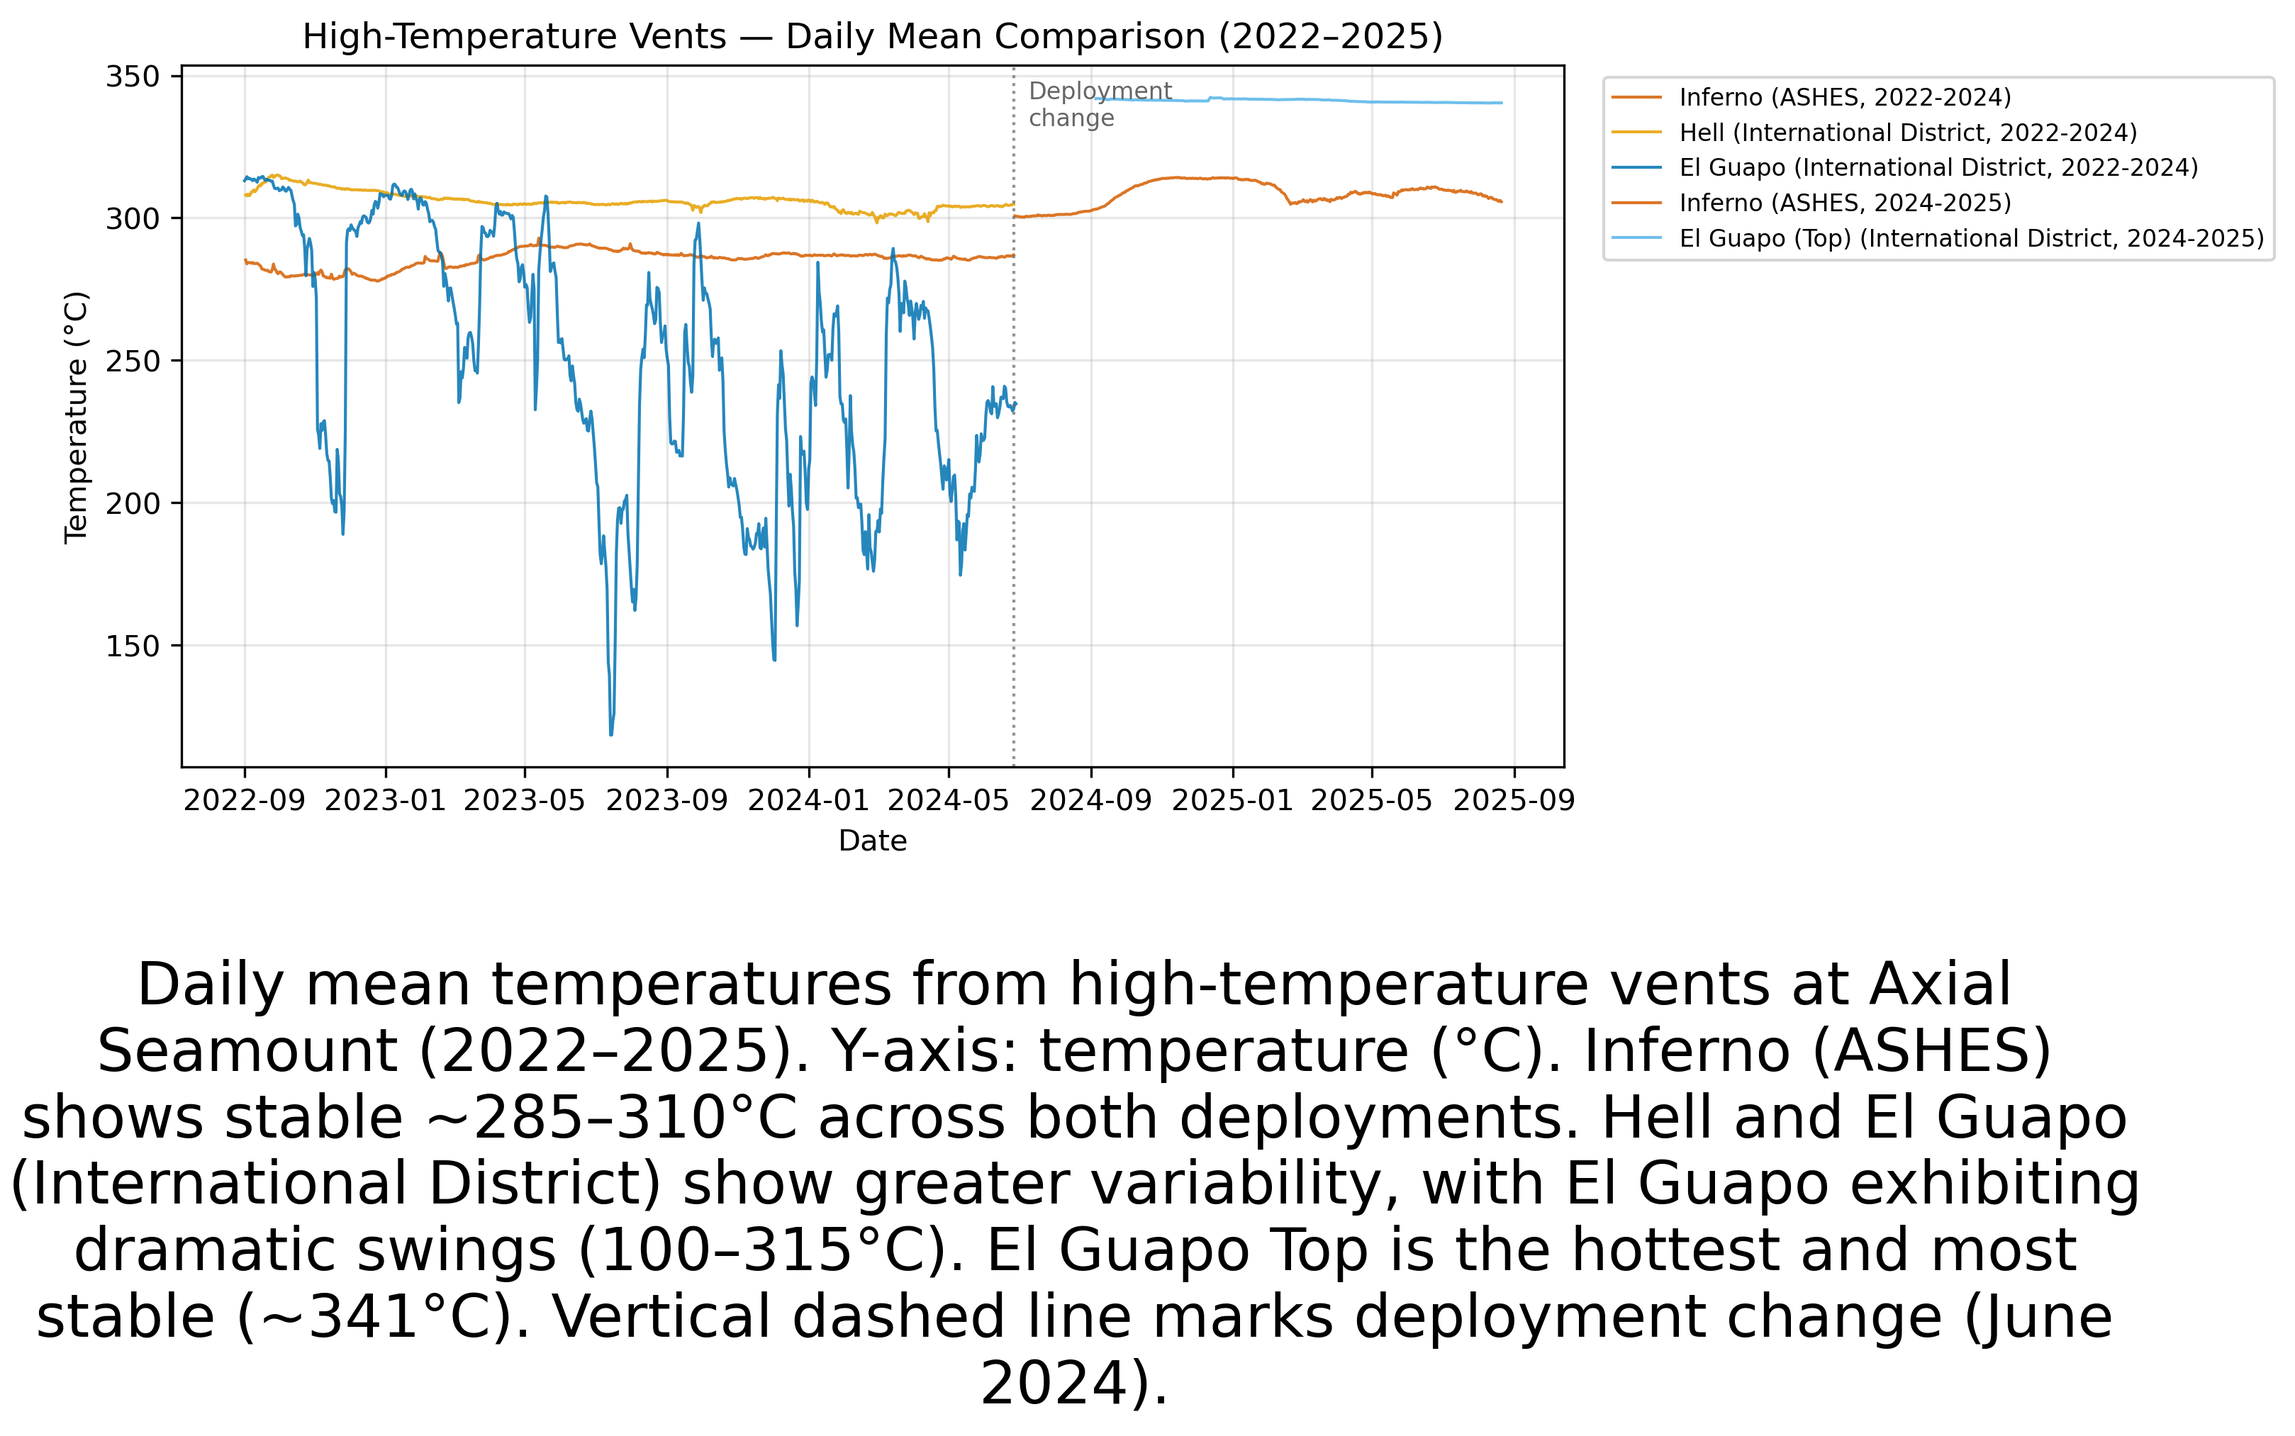
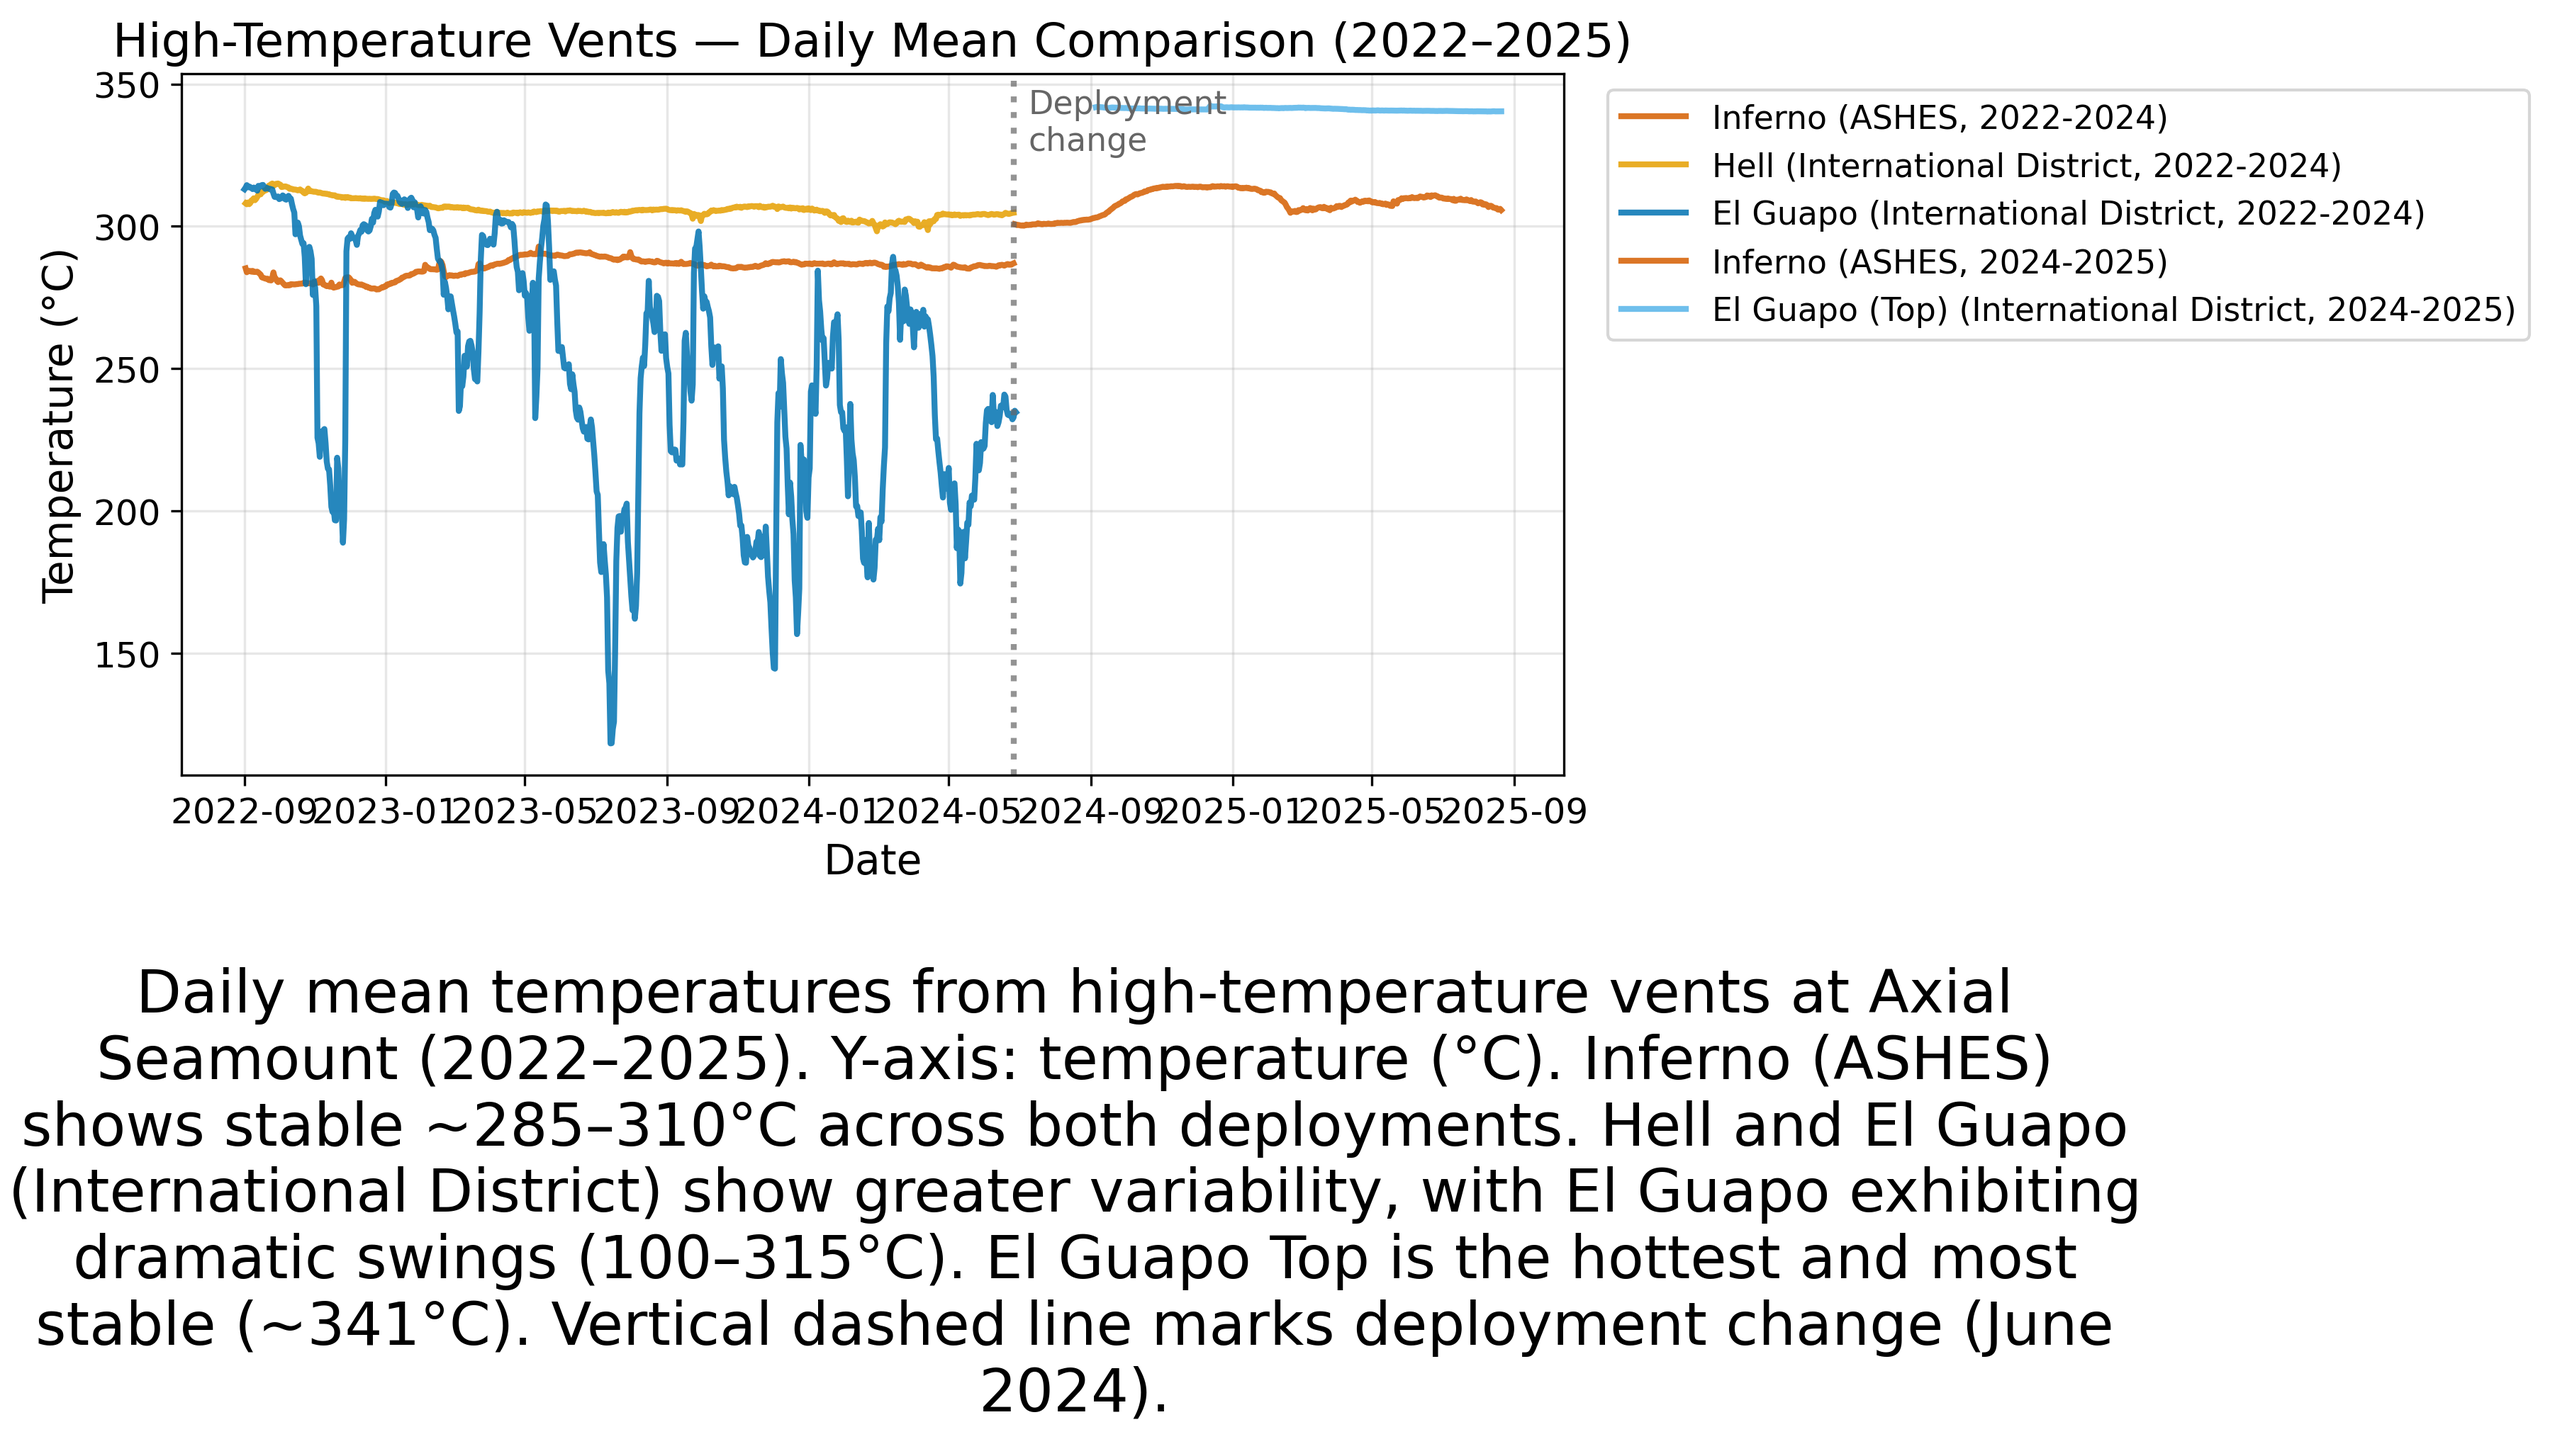
Poster-friendly font sizes and line weights
Add centralized styling constants for poster visibility:
- POSTER_TITLE_SIZE: 16pt (was 12-13pt)
- POSTER_LABEL_SIZE: 14pt (was 9-11pt)
- POSTER_TICK_SIZE: 12pt (was 8-9pt)
- POSTER_LEGEND_SIZE: 11pt (was 7-9pt)
- POSTER_ANNOT_SIZE: 11pt (was 7-9pt)
- POSTER_PANEL_LABEL_SIZE: 18pt (was 14pt)
- POSTER_LINE_WIDTH: 2.0 (was 0.8-1.4)
- POSTER_ANNOT_LINE_WIDTH: 2.0 (was 0.8-1.5)

All figures now readable at 3-6 feet viewing distance.

diff --git a/survey.py b/survey.py
@@ -36,6 +36,16 @@ SETTLING_HOURS = 24
 MAD_THRESHOLD = 5.0
 MAD_WINDOW_HOURS = 24
 
+# --- Poster figure styling (optimized for viewing at 3-6 feet) ---
+POSTER_TITLE_SIZE = 16
+POSTER_LABEL_SIZE = 14      # axis labels
+POSTER_TICK_SIZE = 12       # tick labels
+POSTER_LEGEND_SIZE = 11
+POSTER_ANNOT_SIZE = 11      # annotations
+POSTER_PANEL_LABEL_SIZE = 18  # (a), (b) labels
+POSTER_LINE_WIDTH = 2.0     # main data lines
+POSTER_ANNOT_LINE_WIDTH = 2.0  # vertical annotation lines
+
 # --- Instrument registry ---
 # Each entry: (file_path, vent_name, field, deployment, format, temp_col, date_col)
 INSTRUMENTS = [
@@ -330,26 +340,26 @@ def fig_historical_eruption(records, fig_path, eruption_date=None):
         color = VENT_COLORS.get(vent, "#333333")
         label = f"{vent}"
         daily = deployed["temperature"].resample("D").mean()
-        ax.plot(daily.index, daily.values, color=color, linewidth=1.2, alpha=0.85, label=label)
+        ax.plot(daily.index, daily.values, color=color, linewidth=POSTER_LINE_WIDTH, alpha=0.85, label=label)
 
-    ax.set_xlabel("Date", fontsize=11)
-    ax.set_ylabel("Temperature (°C)", fontsize=11)
-    ax.set_title("Vent Temperatures Around the April 2011 Eruption\nAxial Seamount", fontsize=12, fontweight="bold")
+    ax.set_xlabel("Date", fontsize=POSTER_LABEL_SIZE)
+    ax.set_ylabel("Temperature (°C)", fontsize=POSTER_LABEL_SIZE)
+    ax.set_title("Vent Temperatures Around the April 2011 Eruption\nAxial Seamount", fontsize=POSTER_TITLE_SIZE, fontweight="bold")
     ax.grid(True, alpha=0.3)
-    ax.tick_params(labelsize=9)
+    ax.tick_params(labelsize=POSTER_TICK_SIZE)
 
     # Tighten y-axis to focus on eruption response (230-330°C)
     ax.set_ylim(230, 330)
 
     # Legend in upper left (away from eruption signal)
-    ax.legend(loc="upper left", fontsize=9, frameon=True, framealpha=0.9)
+    ax.legend(loc="upper left", fontsize=POSTER_LEGEND_SIZE, frameon=True, framealpha=0.9)
 
     # Eruption annotation
     if eruption_date:
-        ax.axvline(eruption_date, color="#CC0000", linestyle="--", linewidth=1.5, alpha=0.8)
+        ax.axvline(eruption_date, color="#CC0000", linestyle="--", linewidth=POSTER_ANNOT_LINE_WIDTH, alpha=0.8)
         ax.annotate("April 6, 2011\neruption", xy=(eruption_date, 328),
                     xytext=(5, -5), textcoords="offset points",
-                    fontsize=9, color="#CC0000", va="top", fontweight="bold")
+                    fontsize=POSTER_ANNOT_SIZE, color="#CC0000", va="top", fontweight="bold")
 
     # Figure caption (20pt font for poster)
     caption = (
@@ -460,22 +470,22 @@ def fig_survey_overview(records, fig_path):
         label = f"{vent} ({rec.attrs['field']}, {dep})"
 
         daily = deployed["temperature"].resample("D").mean()
-        ax.plot(daily.index, daily.values, color=color, linewidth=0.8)
-        ax.set_ylabel("°C", fontsize=9)
-        ax.set_title(label, fontsize=10, fontweight="bold", loc="left")
+        ax.plot(daily.index, daily.values, color=color, linewidth=POSTER_LINE_WIDTH)
+        ax.set_ylabel("°C", fontsize=POSTER_LABEL_SIZE)
+        ax.set_title(label, fontsize=POSTER_LABEL_SIZE, fontweight="bold", loc="left")
         ax.grid(True, alpha=0.3)
-        ax.tick_params(labelsize=8)
+        ax.tick_params(labelsize=POSTER_TICK_SIZE)
         ax.set_xlim(xmin, xmax)
 
-    axes[-1].set_xlabel("Date")
+    axes[-1].set_xlabel("Date", fontsize=POSTER_LABEL_SIZE)
 
     # Deployment change annotation on all panels
     deploy_change = pd.Timestamp("2024-06-26")
     for ax in axes:
-        ax.axvline(deploy_change, color="#666666", linestyle=":", linewidth=0.8, alpha=0.7)
+        ax.axvline(deploy_change, color="#666666", linestyle=":", linewidth=POSTER_ANNOT_LINE_WIDTH, alpha=0.7)
 
     fig.suptitle("MISO Temperature Survey — All Recent Instruments (2022–2025)",
-                 fontsize=13, fontweight="bold")
+                 fontsize=POSTER_TITLE_SIZE, fontweight="bold")
 
     # Figure caption
     caption = (
@@ -508,20 +518,21 @@ def fig_hightemp_comparison(records, summary, fig_path):
         color = VENT_COLORS.get(vent, "#333333")
         label = f"{vent} ({rec.attrs['field']}, {dep})"
         daily = deployed["temperature"].resample("D").mean()
-        ax.plot(daily.index, daily.values, color=color, linewidth=1, alpha=0.85, label=label)
+        ax.plot(daily.index, daily.values, color=color, linewidth=POSTER_LINE_WIDTH, alpha=0.85, label=label)
 
-    ax.set_xlabel("Date")
-    ax.set_ylabel("Temperature (°C)")
-    ax.set_title("High-Temperature Vents — Daily Mean Comparison (2022–2025)")
-    ax.legend(loc="upper left", bbox_to_anchor=(1.02, 1), fontsize=8, frameon=True)
+    ax.set_xlabel("Date", fontsize=POSTER_LABEL_SIZE)
+    ax.set_ylabel("Temperature (°C)", fontsize=POSTER_LABEL_SIZE)
+    ax.set_title("High-Temperature Vents — Daily Mean Comparison (2022–2025)", fontsize=POSTER_TITLE_SIZE)
+    ax.legend(loc="upper left", bbox_to_anchor=(1.02, 1), fontsize=POSTER_LEGEND_SIZE, frameon=True)
     ax.grid(True, alpha=0.3)
+    ax.tick_params(labelsize=POSTER_TICK_SIZE)
 
     # Deployment change annotation
     deploy_change = pd.Timestamp("2024-06-26")
-    ax.axvline(deploy_change, color="#666666", linestyle=":", linewidth=1, alpha=0.7)
+    ax.axvline(deploy_change, color="#666666", linestyle=":", linewidth=POSTER_ANNOT_LINE_WIDTH, alpha=0.7)
     ax.annotate("Deployment\nchange", xy=(deploy_change, ax.get_ylim()[1]),
                 xytext=(5, -5), textcoords="offset points",
-                fontsize=8, color="#666666", va="top")
+                fontsize=POSTER_ANNOT_SIZE, color="#666666", va="top")
 
     # Figure caption (24pt font for poster)
     caption = (
@@ -547,11 +558,11 @@ def fig_poster_bpr(records, summary, bpr, fig_path, tmpsf=None):
     # Same base color for same vent, solid=2022-2024, dashed=2024-2025
     # Uses colorblind-safe Okabe-Ito palette
     POSTER_STYLE = {
-        ("Inferno", "2022-2024"):      {"color": "#D55E00", "ls": "-",  "lw": 1.4, "label": "Inferno (ASHES, 2022–24)"},
-        ("Inferno", "2024-2025"):      {"color": "#D55E00", "ls": "--", "lw": 1.4, "label": "Inferno (ASHES, 2024–25)"},
-        ("Hell", "2022-2024"):         {"color": "#E69F00", "ls": "-",  "lw": 1.4, "label": "Hell (ID, 2022–24)"},
-        ("El Guapo", "2022-2024"):     {"color": "#0072B2", "ls": "-",  "lw": 1.4, "label": "El Guapo (ID, 2022–24)"},
-        ("El Guapo (Top)", "2024-2025"): {"color": "#56B4E9", "ls": "--", "lw": 1.4, "label": "El Guapo Top (ID, 2024–25)"},
+        ("Inferno", "2022-2024"):      {"color": "#D55E00", "ls": "-",  "lw": POSTER_LINE_WIDTH, "label": "Inferno (ASHES, 2022–24)"},
+        ("Inferno", "2024-2025"):      {"color": "#D55E00", "ls": "--", "lw": POSTER_LINE_WIDTH, "label": "Inferno (ASHES, 2024–25)"},
+        ("Hell", "2022-2024"):         {"color": "#E69F00", "ls": "-",  "lw": POSTER_LINE_WIDTH, "label": "Hell (ID, 2022–24)"},
+        ("El Guapo", "2022-2024"):     {"color": "#0072B2", "ls": "-",  "lw": POSTER_LINE_WIDTH, "label": "El Guapo (ID, 2022–24)"},
+        ("El Guapo (Top)", "2024-2025"): {"color": "#56B4E9", "ls": "--", "lw": POSTER_LINE_WIDTH, "label": "El Guapo Top (ID, 2024–25)"},
     }
 
     # Two panels if TMPSF available, otherwise single (with space for caption)
@@ -575,8 +586,8 @@ def fig_poster_bpr(records, summary, bpr, fig_path, tmpsf=None):
                  color=style["color"], linestyle=style["ls"],
                  linewidth=style["lw"], alpha=0.85, label=style["label"])
 
-    ax1.set_ylabel("Vent Temperature (°C)", fontsize=11)
-    ax1.tick_params(labelsize=9)
+    ax1.set_ylabel("Vent Temperature (°C)", fontsize=POSTER_LABEL_SIZE)
+    ax1.tick_params(labelsize=POSTER_TICK_SIZE)
 
     # Constrain x-axis to temperature data range (with small padding)
     all_starts = []
@@ -596,10 +607,10 @@ def fig_poster_bpr(records, summary, bpr, fig_path, tmpsf=None):
         ax2 = ax1.twinx()
         bpr_cm = bpr["differential_m"] * 100
         ax2.plot(bpr.index, bpr_cm,
-                 color="#0868AC", alpha=0.5, linewidth=1.5, linestyle="--",
+                 color="#0868AC", alpha=0.5, linewidth=POSTER_LINE_WIDTH + 0.5, linestyle="--",
                  label="Differential uplift")
-        ax2.set_ylabel("Differential uplift (cm)", color="#0868AC", fontsize=11)
-        ax2.tick_params(axis="y", labelcolor="#0868AC", labelsize=9)
+        ax2.set_ylabel("Differential uplift (cm)", color="#0868AC", fontsize=POSTER_LABEL_SIZE)
+        ax2.tick_params(axis="y", labelcolor="#0868AC", labelsize=POSTER_TICK_SIZE)
 
         # Constrain y-axis to visible BPR range (within the x-axis window)
         bpr_visible = bpr_cm.loc[xmin:xmax].dropna()
@@ -622,13 +633,13 @@ def fig_poster_bpr(records, summary, bpr, fig_path, tmpsf=None):
         tmpsf_hot_mean = tmpsf[hot_cols].mean(axis=1)
 
         ax3.plot(tmpsf_hot_mean.index, tmpsf_hot_mean.values,
-                 color="#7A0177", linewidth=0.8, alpha=0.85)
-        ax3.set_ylabel("TMPSF (°C)", fontsize=11)
-        ax3.set_xlabel("Date", fontsize=11)
-        ax3.tick_params(labelsize=9)
+                 color="#7A0177", linewidth=POSTER_LINE_WIDTH, alpha=0.85)
+        ax3.set_ylabel("TMPSF (°C)", fontsize=POSTER_LABEL_SIZE)
+        ax3.set_xlabel("Date", fontsize=POSTER_LABEL_SIZE)
+        ax3.tick_params(labelsize=POSTER_TICK_SIZE)
         ax3.grid(True, alpha=0.3)
         ax3.set_title("Diffuse Flow — ASHES (TMPSF hot channel mean, excl. ch06)",
-                      fontsize=10, loc="left", style="italic")
+                      fontsize=POSTER_LABEL_SIZE, loc="left", style="italic")
 
         # Constrain TMPSF y-axis to visible range
         tmpsf_visible = tmpsf_hot_mean.loc[xmin:xmax].dropna()
@@ -639,30 +650,30 @@ def fig_poster_bpr(records, summary, bpr, fig_path, tmpsf=None):
         # Deployment change annotation on TMPSF panel
         deploy_change = pd.Timestamp("2024-06-26")  # ~when 2022-2024 ended, 2024-2025 began
         if xmin <= deploy_change <= xmax:
-            ax3.axvline(deploy_change, color="#666666", linestyle=":", linewidth=1, alpha=0.7)
+            ax3.axvline(deploy_change, color="#666666", linestyle=":", linewidth=POSTER_ANNOT_LINE_WIDTH, alpha=0.7)
             ax3.annotate("Deployment\nchange", xy=(deploy_change, tmpsf_visible.max()),
                          xytext=(5, -5), textcoords="offset points",
-                         fontsize=7, color="#666666", va="top")
+                         fontsize=POSTER_ANNOT_SIZE, color="#666666", va="top")
     else:
-        ax1.set_xlabel("Date", fontsize=11)
+        ax1.set_xlabel("Date", fontsize=POSTER_LABEL_SIZE)
 
     # Deployment change annotation on main panel
     deploy_change = pd.Timestamp("2024-06-26")
     if xmin <= deploy_change <= xmax:
-        ax1.axvline(deploy_change, color="#666666", linestyle=":", linewidth=1, alpha=0.7)
+        ax1.axvline(deploy_change, color="#666666", linestyle=":", linewidth=POSTER_ANNOT_LINE_WIDTH, alpha=0.7)
 
     # Legend in main temperature panel (top), not TMPSF panel
     ax1.legend(all_lines, all_labels,
-               loc="lower right", ncol=2, fontsize=7, frameon=True, framealpha=0.9)
+               loc="lower right", ncol=2, fontsize=POSTER_LEGEND_SIZE, frameon=True, framealpha=0.9)
 
     ax1.set_title("Hydrothermal Vent Temperatures and Volcanic Deformation\nAxial Seamount (2022–2025)",
-                  fontsize=13, fontweight="bold")
+                  fontsize=POSTER_TITLE_SIZE, fontweight="bold")
     ax1.grid(True, alpha=0.3)
 
     # Panel labels (a), (b) for reference in text
-    ax1.text(-0.08, 1.02, "(a)", transform=ax1.transAxes, fontsize=14, fontweight="bold", va="bottom")
+    ax1.text(-0.08, 1.02, "(a)", transform=ax1.transAxes, fontsize=POSTER_PANEL_LABEL_SIZE, fontweight="bold", va="bottom")
     if tmpsf is not None:
-        ax3.text(-0.08, 1.05, "(b)", transform=ax3.transAxes, fontsize=14, fontweight="bold", va="bottom")
+        ax3.text(-0.08, 1.05, "(b)", transform=ax3.transAxes, fontsize=POSTER_PANEL_LABEL_SIZE, fontweight="bold", va="bottom")
 
     # Figure caption (24pt font for poster) - use dedicated axes to avoid overlap
     caption = (
